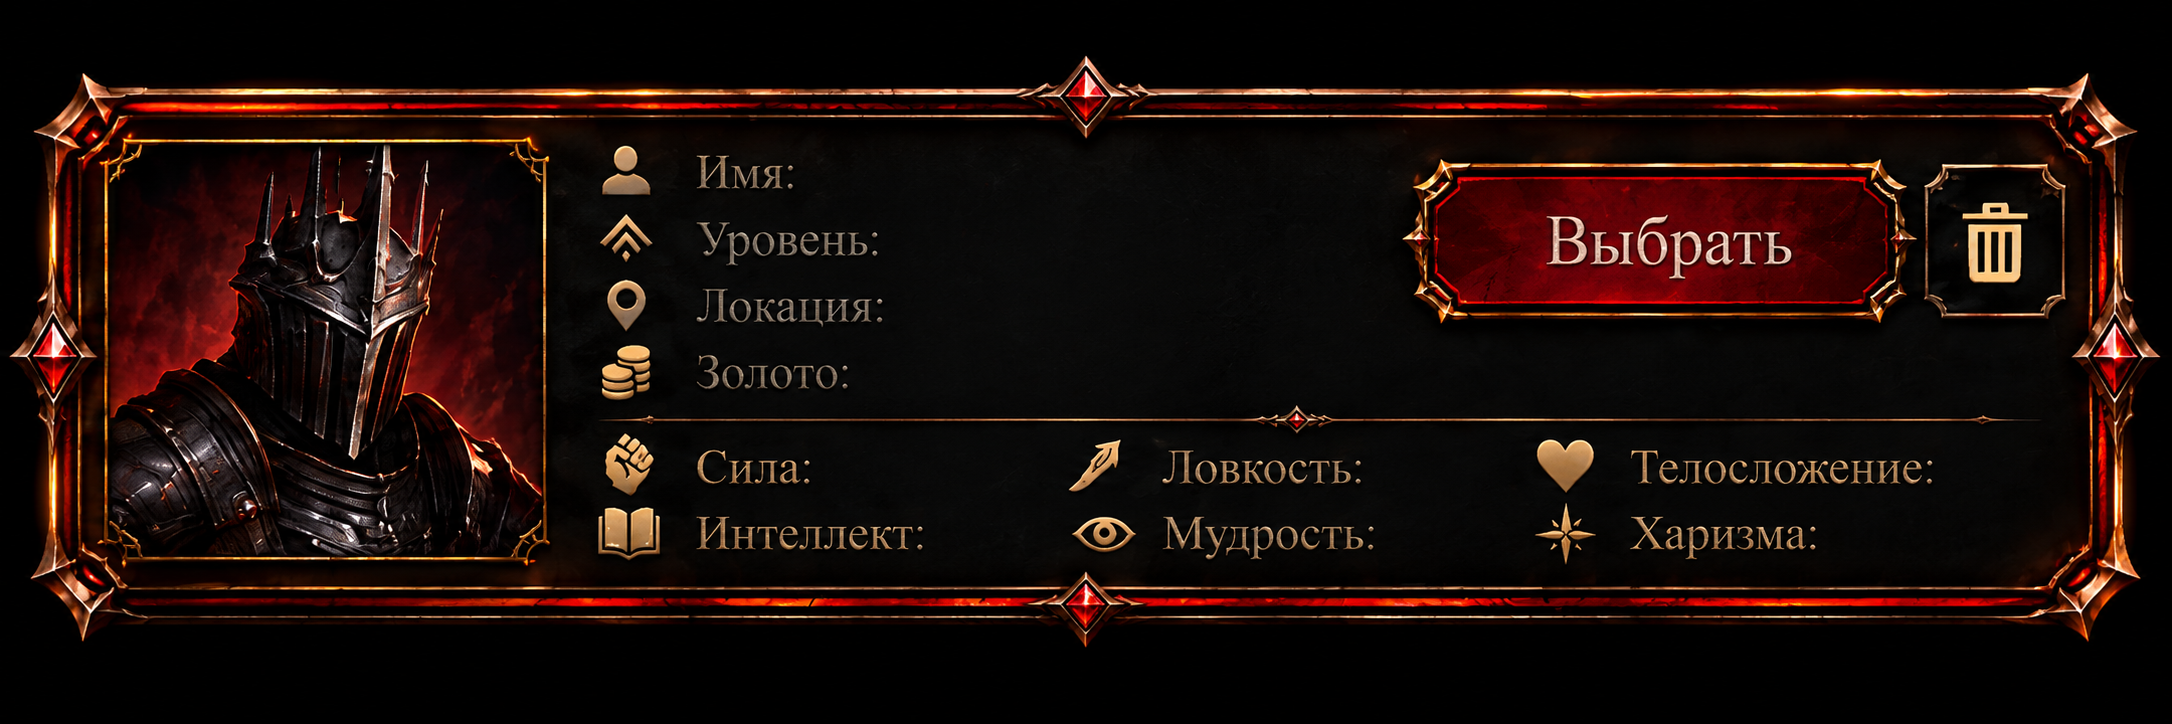
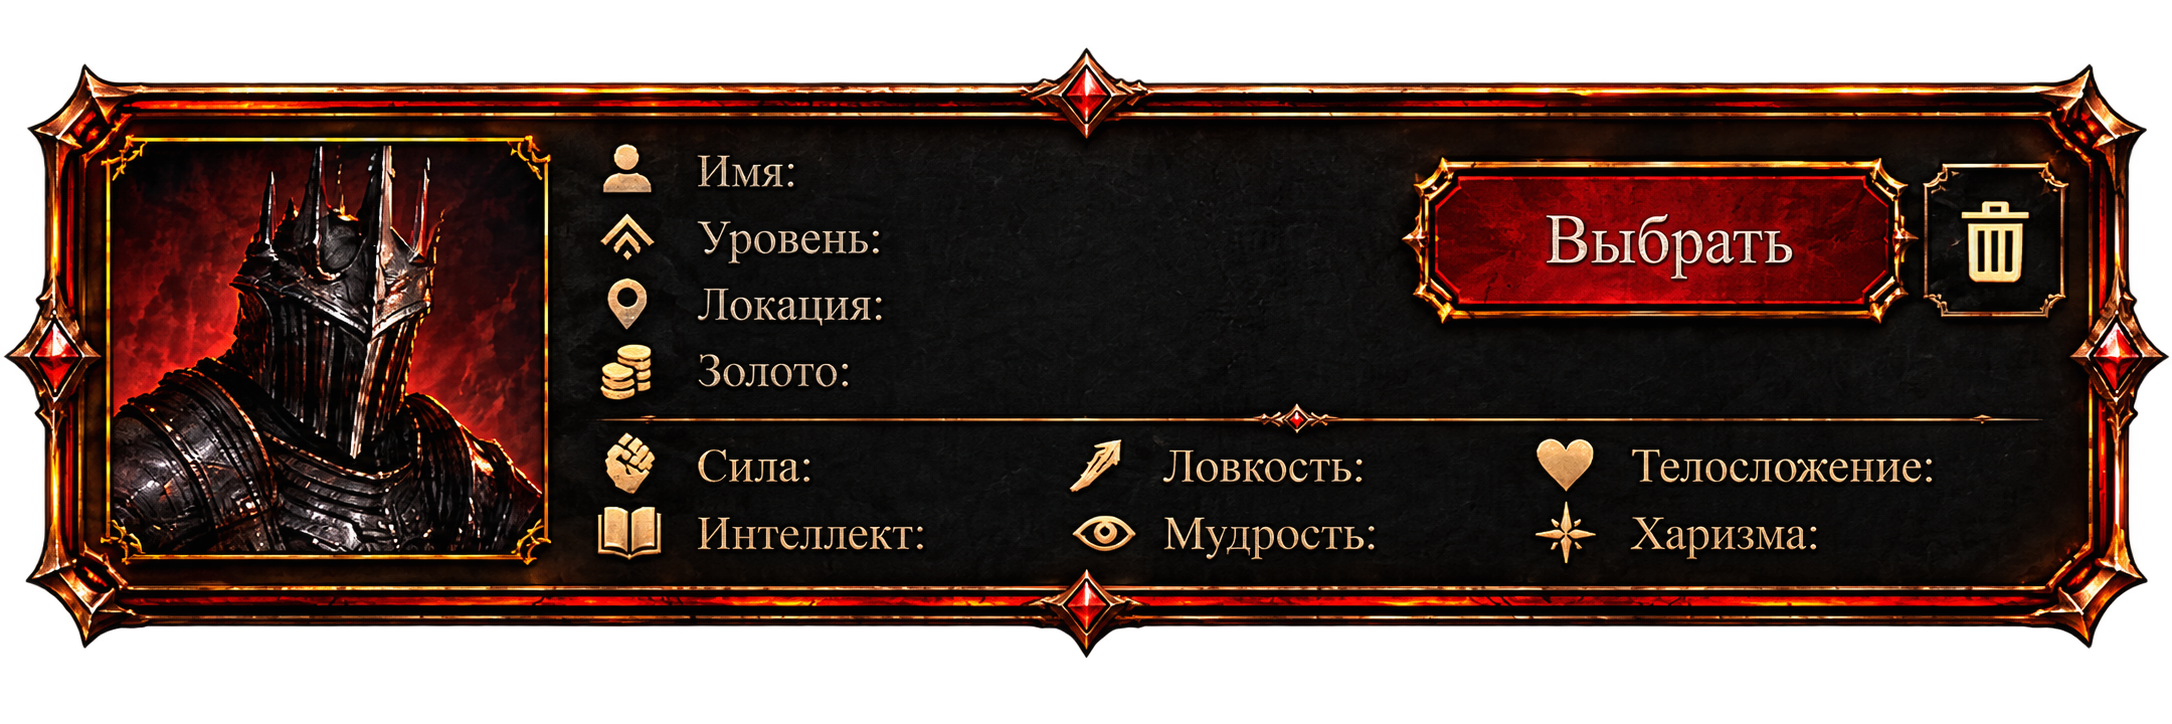
fix: align character selection artwork

diff --git a/frontend/src/index.css b/frontend/src/index.css
@@ -671,18 +671,19 @@ button, a { -webkit-tap-highlight-color: transparent; }
     white-space: nowrap;
     text-overflow: ellipsis;
     text-shadow: 0 .08rem .18rem #000, 0 0 .25rem rgba(0, 0, 0, .95);
+    transform: translateY(-50%);
 }
 
-.character-card__name { top: 16.5%; left: 38.1%; max-width: 24%; font-size: clamp(.74rem, 1.15vw, 1.12rem); }
-.character-card__level { top: 25.5%; left: 38.1%; }
-.character-card__location { top: 34.5%; left: 40.8%; max-width: 22%; }
-.character-card__gold { top: 43.5%; left: 38.1%; }
-.character-card__strength { top: 56%; left: 36.8%; }
-.character-card__dexterity { top: 56%; left: 59.2%; }
-.character-card__constitution { top: 56%; left: 84.6%; }
-.character-card__intelligence { top: 65.5%; left: 42.1%; }
-.character-card__wisdom { top: 65.5%; left: 60.7%; }
-.character-card__charisma { top: 65.5%; left: 81.3%; }
+.character-card__name { top: 22.3%; left: 38.2%; max-width: 23%; font-size: clamp(.74rem, 1.15vw, 1.12rem); }
+.character-card__level { top: 31.2%; left: 39%; }
+.character-card__location { top: 40.1%; left: 43%; max-width: 18%; }
+.character-card__gold { top: 49%; left: 38.2%; }
+.character-card__strength { top: 61.2%; left: 38%; }
+.character-card__dexterity { top: 61.2%; left: 63%; }
+.character-card__constitution { top: 61.2%; left: 85.5%; }
+.character-card__intelligence { top: 70.7%; left: 44%; }
+.character-card__wisdom { top: 70.7%; left: 64.1%; }
+.character-card__charisma { top: 70.7%; left: 85%; }
 
 .character-card__select {
     position: absolute;
@@ -722,9 +723,9 @@ button, a { -webkit-tap-highlight-color: transparent; }
     position: absolute;
     z-index: 2;
     left: 31.1%;
-    bottom: 9.1%;
+    bottom: 7.9%;
     width: 37.8%;
-    height: 7.2%;
+    aspect-ratio: 618 / 86;
     display: grid;
     place-items: center;
     padding: .2rem 1.5rem;
@@ -734,7 +735,7 @@ button, a { -webkit-tap-highlight-color: transparent; }
     letter-spacing: .025em;
     text-transform: uppercase;
     cursor: pointer;
-    background: transparent url("/assets/auth/auth-button-login.png") center / 100% 100% no-repeat;
+    background: transparent url("/assets/character-selection/create-button.png") center / 100% 100% no-repeat;
     border: 0;
     text-shadow: 0 .12rem .2rem #000;
 }

diff --git a/frontend/src/pages/CharacterSelectionPage.tsx b/frontend/src/pages/CharacterSelectionPage.tsx
@@ -101,9 +101,10 @@ export default function CharacterSelectionPage() {
                 <button
                     className="character-selection__create"
                     type="button"
+                    aria-label="Создать персонажа"
                     onClick={() => navigate("/create-character")}
                 >
-                    <span>Создать персонажа</span>
+                    <span className="sr-only">Создать персонажа</span>
                 </button>
             </section>
         </main>
